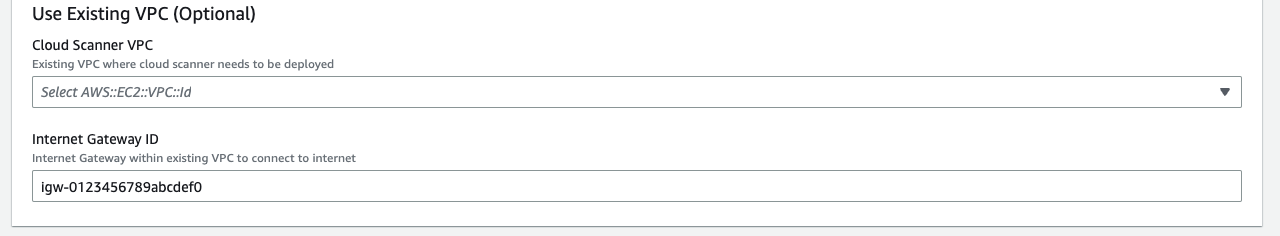
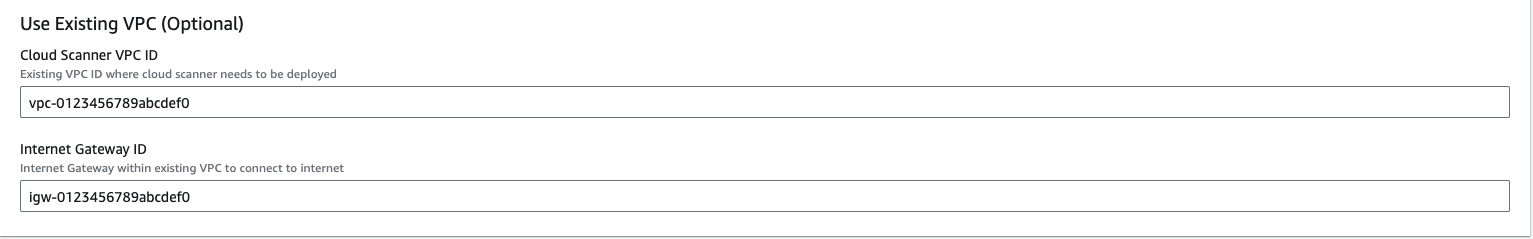
Add documentation for cloud scanner private VPC

diff --git a/docs/docs/cloudscanner/aws.md b/docs/docs/cloudscanner/aws.md
@@ -44,11 +44,19 @@ Then, fill in the below parameters as needed:
 
 #### For Deployment in Existing VPC(Optional)
 
-If you want to deploy Cloud Scanner in an existing VPC, you need to fill in the following params:
+If you want to deploy Cloud Scanner in an existing VPC(say, for environment where the Deepfence Management Console can only be accessed via a private IP within the VPC), you need to fill in the following params:
 
 | ![Cloud Scanner](../img/cloud-scanner-aws-3.png) |
 |:------------------------------------------------:|
 |                    Choose VPC                    |
+
+#### Configure CIDR blocks(Optional)
+
+You may want to configure CIDR blocks to avoid collision with existing CIDR blocks:
+
+| ![Cloud Scanner](../img/cloud-scanner-aws-4.png) |
+|:------------------------------------------------:|
+|                   Choose CIDRs                   |
 
 ## Terraform
 

diff --git a/docs/versioned_docs/version-v1.5/cloudscanner/aws.md b/docs/versioned_docs/version-v1.5/cloudscanner/aws.md
@@ -44,11 +44,19 @@ Then, fill in the below parameters as needed:
 
 #### For Deployment in Existing VPC(Optional)
 
-If you want to deploy Cloud Scanner in an existing VPC, you need to fill in the following params:
+If you want to deploy Cloud Scanner in an existing VPC(say, for environment where the Deepfence Management Console can only be accessed via a private IP within the VPC), you need to fill in the following params:
 
 | ![Cloud Scanner](../img/cloud-scanner-aws-3.png) |
 |:------------------------------------------------:|
 |                    Choose VPC                    |
+
+#### Configure CIDR blocks(Optional)
+
+You may want to configure CIDR blocks to avoid collision with existing CIDR blocks:
+
+| ![Cloud Scanner](../img/cloud-scanner-aws-4.png) |
+|:------------------------------------------------:|
+|                   Choose CIDRs                   |
 
 ## Terraform
 
